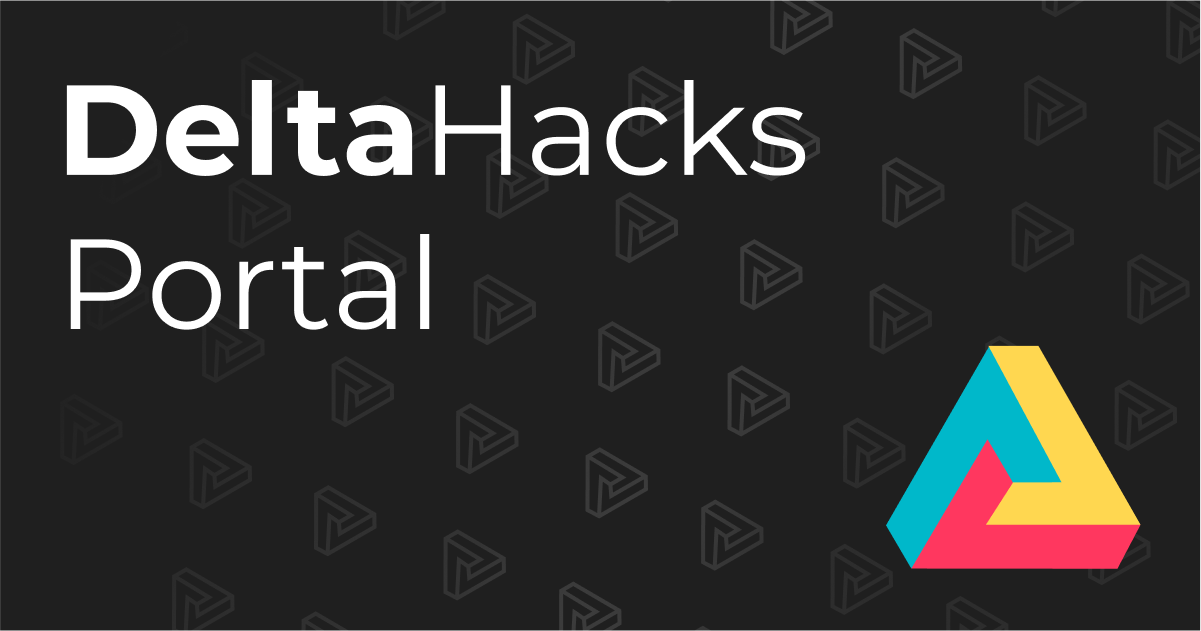
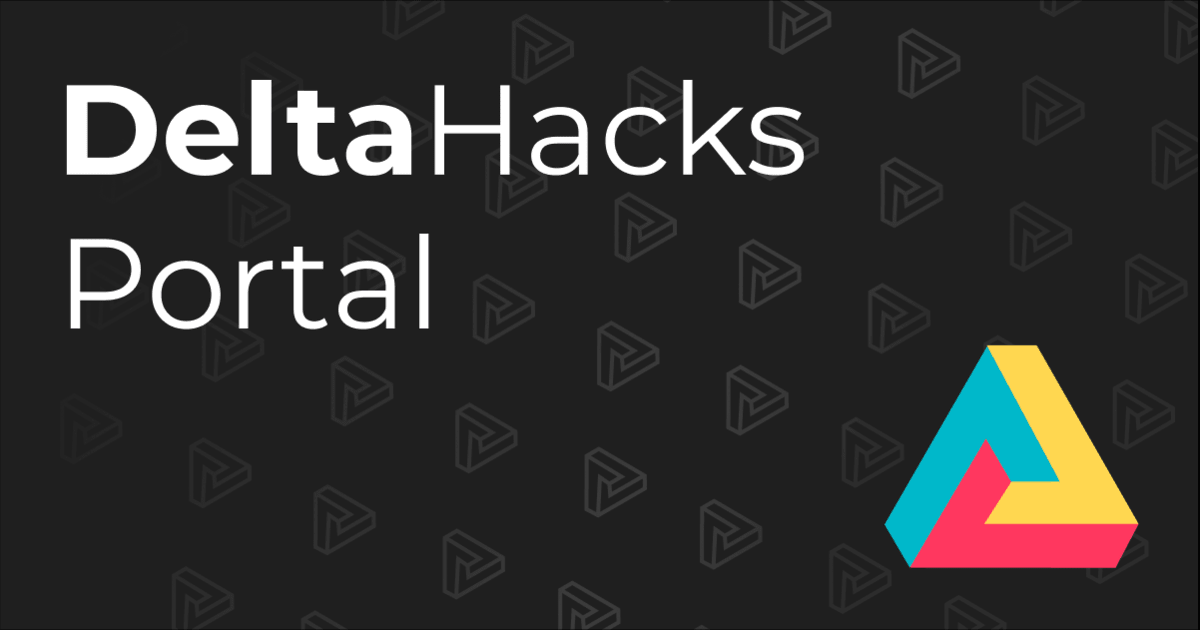
fix: og image (#155)
* fix: change image

* feat: add meta tags

* fix: title

* feat: add theme colors

---------

diff --git a/src/pages/_app.tsx b/src/pages/_app.tsx
@@ -30,6 +30,42 @@ const MyApp: AppType<{ session: Session | null; ogImage: string }> = ({
           />
           {/* open graph image */}
           <meta property="og:image" content={env.NEXT_PUBLIC_URL + "/og.png"} />
+
+          {/* <!-- HTML Meta Tags --> */}
+          <title>DeltaHacks X</title>
+          <meta name="description" content="Hackathon for Change" />
+
+          <meta property="og:url" content="https://portal.deltahacks.com" />
+          <meta property="og:type" content="website" />
+          <meta property="og:title" content="DeltaHacks X" />
+          <meta property="og:description" content="Hackathon for Change" />
+          <meta
+            property="og:image"
+            content="https://beta.portal.deltahacks.com/og.png"
+          />
+
+          <meta name="twitter:card" content="summary_large_image" />
+          <meta
+            property="twitter:domain"
+            content="https://portal.deltahacks.com"
+          />
+          <meta
+            property="twitter:url"
+            content="https://portal.deltahacks.com"
+          />
+          <meta name="twitter:title" content="DeltaHacks X" />
+          <meta name="twitter:description" content="Hackathon for Change" />
+          <meta
+            name="twitter:image"
+            content="https://beta.portal.deltahacks.com/og.png"
+          />
+
+          <meta name="theme-color" content="#6419E6" />
+          <meta name="msapplication-navbutton-color" content="#6419E6" />
+          <meta
+            name="apple-mobile-web-app-status-bar-style"
+            content="#6419E6"
+          />
         </Head>
         <Script
           src="https://www.googletagmanager.com/gtag/js?id=G-419VDPBPXK"
